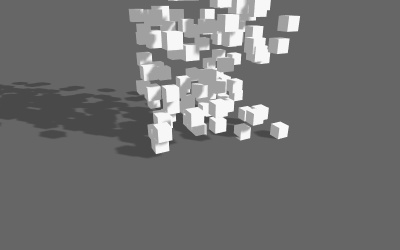
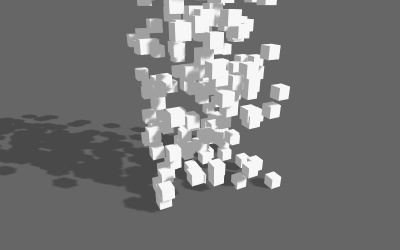
Examples: Improved physics_cannon_instancing.

Changed region(s): [[0.0, 0.0, 0.75, 0.868]]

diff --git a/examples/physics_cannon_instancing.html b/examples/physics_cannon_instancing.html
@@ -33,8 +33,8 @@
 				//
 
 				camera = new THREE.PerspectiveCamera( 50, window.innerWidth / window.innerHeight, 0.1, 100 );
-				camera.position.set( - 1, 1, 2 );
-				camera.lookAt( 0, 0, 0 );
+				camera.position.set( - 1, 1.5, 2 );
+				camera.lookAt( 0, 0.5, 0 );
 
 				scene = new THREE.Scene();
 				scene.background = new THREE.Color( 0x666666 );
@@ -110,7 +110,9 @@
 
 				//
 
-				new OrbitControls( camera, renderer.domElement );
+				var controls = new OrbitControls( camera, renderer.domElement );
+				controls.target.y = 0.5;
+				controls.update();
 
 			}
 
